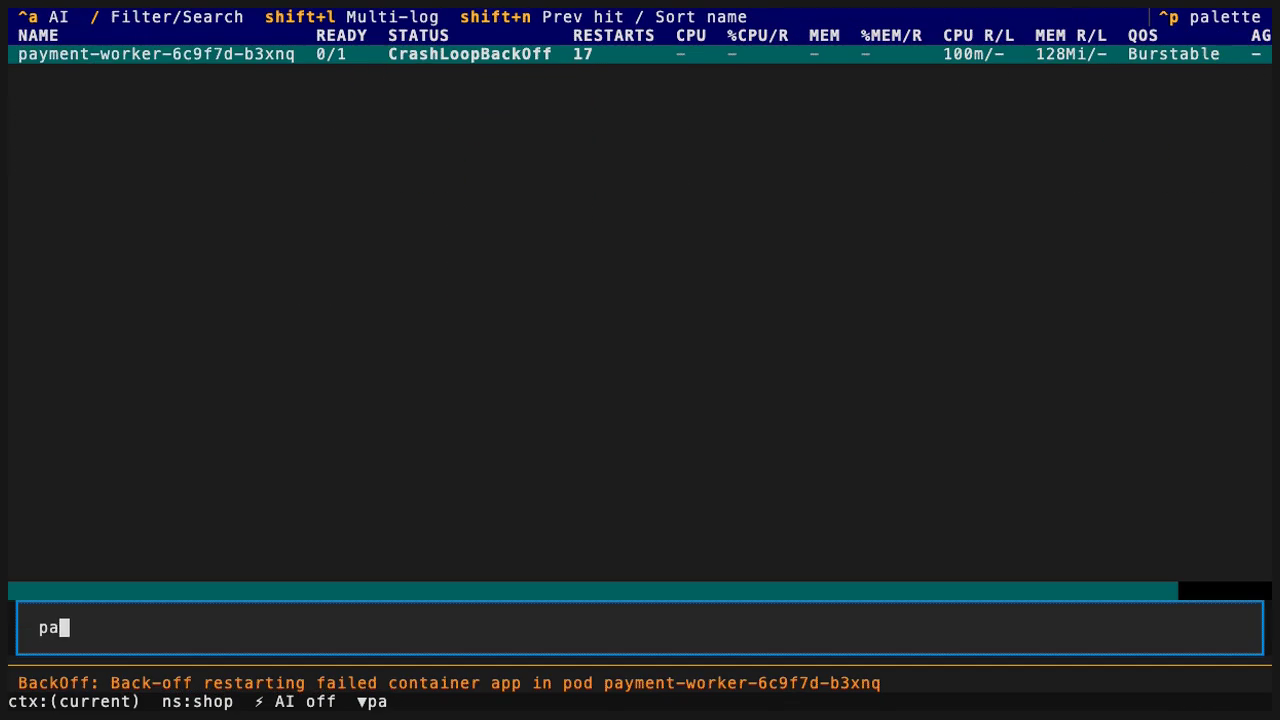
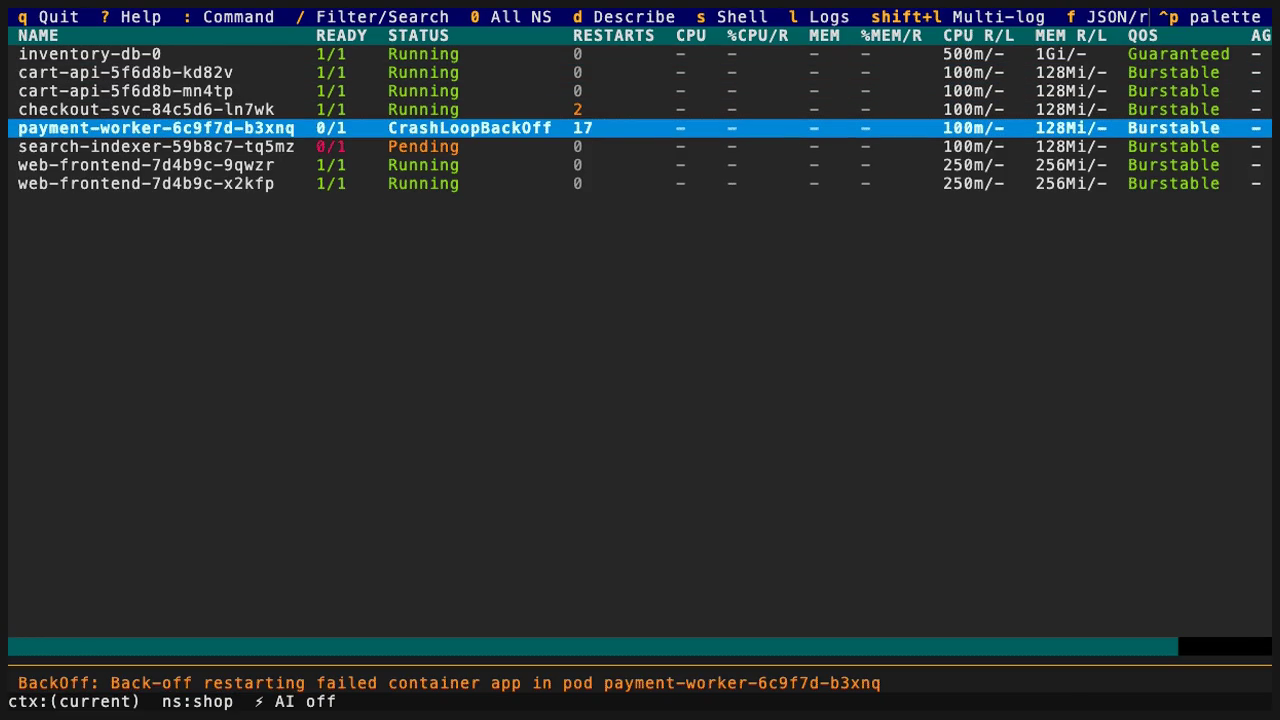
fix: re-cut the hero poster from a settled populated frame
The poster was cut at 00:00:10, mid-filter: one visible row, a live `/`
prompt, and ~75% empty black — the near-empty table the design explicitly
forbids, shown three times above and near the fold. Cut it at 00:00:05
instead, inside the tape's settled pause: the full `shop` pod table with
the crash-looping payment worker selected, its BackOff ops hint, and the
`ctx:/ns:` status row.

The fixture has no metrics source, so the mosaic no longer claims the
frame proves utilization and says what it does show. Correct all three
TUI pins against the new frame's measured rows (key hints y 8-25,
selected row y 119-137, status row y 695-710 of 720) and replace the test
that asserted the old mismatch as fact.

Changed region(s): [[0.0, 0.0, 1.0, 0.275], [0.0, 0.7944, 1.0, 0.9167], [0.2812, 0.9472, 0.3125, 1.0]]

diff --git a/tests/test_docs_build_config.py b/tests/test_docs_build_config.py
@@ -129,16 +129,37 @@ def test_core_concept_pages_each_have_their_selected_visual_evidence() -> None:
 
 
 def test_tui_annotation_pins_match_the_poster_layout() -> None:
-    """`tui.md` must keep the semantic labels aligned with the poster pins."""
+    """`tui.md`'s pins must land on what their captions claim.
+
+    Measured against the 1280x720 `cockpit-poster.png` this branch ships
+    (a settled, populated post-navigation frame):
+
+    * the effective key-hint row occupies y 8-25px (~1-3%);
+    * the selected `CrashLoopBackOff` row occupies y 119-137px (~17-19%);
+    * the `ctx:(current)  ns:shop` status row occupies y 695-710px (~97%),
+      with `ns:shop` starting near x 157px (~12%).
+
+    The pins are ordered 1, 2, 3 in the source, matching the ordered list in
+    the figcaption. An earlier revision pointed pin 3 at 8% (the first pod
+    row) and pin 1 at 92% (~40px above the status row) and asserted those
+    offsets as fact, so the test actively defended the mismatch.
+    """
     source = (ROOT / "docs" / "tui.md").read_text(encoding="utf-8")
-    assert (
-        '<span class="docs-visual__pin" style="--x: 12%; --y: 92%;" aria-hidden="true">1</span>'
-        in source
-    ), "pin 1 must point to the bottom context/status row at --y: 92%"
-    assert (
-        '<span class="docs-visual__pin" style="--x: 50%; --y: 8%;" aria-hidden="true">3</span>'
-        in source
-    ), "pin 3 must point to the top keybinding hint row at --y: 8%"
+    expected = {
+        1: ("12%", "97%", "the context/namespace status row"),
+        2: ("50%", "18%", "the selected, populated resource row"),
+        3: ("50%", "3%", "the effective key-hint row"),
+    }
+    for number, (x, y, target) in expected.items():
+        pin = (
+            f'<span class="docs-visual__pin" style="--x: {x}; --y: {y};" '
+            f'aria-hidden="true">{number}</span>'
+        )
+        assert pin in source, f"pin {number} must point at {target} (--x: {x}; --y: {y})"
+    positions = [source.index(f'aria-hidden="true">{number}</span>') for number in (1, 2, 3)]
+    assert positions == sorted(positions), (
+        "the pins must stay in the order their figcaption list explains them"
+    )
 
 
 def test_getting_started_matches_current_project_and_readme_release() -> None:

diff --git a/tests/test_docs_landing_design.py b/tests/test_docs_landing_design.py
@@ -668,6 +668,28 @@ def test_capability_mosaic_contains_six_real_linked_product_scenes() -> None:
         assert len(re.sub(r"<[^>]+>", " ", paragraphs[0]).split()) <= 30
 
 
+def test_evidence_copy_claims_only_what_its_capture_actually_shows() -> None:
+    """A caption must not promise a signal the screenshot cannot contain.
+
+    The cockpit capture comes from an in-memory fixture with no metrics
+    source, so every CPU/MEM column renders an em-dash placeholder. Claiming
+    the frame shows "utilization" made the page's own headline evidence
+    contradict itself.
+    """
+    mosaic = _section('<section class="evidence-mosaic"', "</section>")
+    cockpit = next(
+        card
+        for card in re.findall(r'<article class="evidence-card[^"]*".*?</article>', mosaic, re.S)
+        if "cockpit-poster.png" in card
+    )
+    assert "utilization" not in cockpit.lower(), (
+        "the cockpit capture has no live metrics, so its caption must describe "
+        "what it does show (status, scope, restarts) instead"
+    )
+    for signal in ("status", "scope", "restart"):
+        assert signal in cockpit.lower()
+
+
 def test_flight_paths_are_four_compact_user_destinations() -> None:
     paths = _section('<nav class="flight-paths"', "</nav>")
     for label, href in (

diff --git a/docs/superpowers/plans/2026-08-22-visual-storytelling.md b/docs/superpowers/plans/2026-08-22-visual-storytelling.md
@@ -129,11 +129,18 @@ Run from the repository root:
 
 ```bash
 mkdir -p docs/assets/scenes
-ffmpeg -y -ss 00:00:10 -i docs/assets/demo.mp4 -frames:v 1 \
+ffmpeg -y -ss 00:00:05 -i docs/assets/demo.mp4 -frames:v 1 \
   docs/assets/scenes/cockpit-poster.png
 ```
 
-Verify the capture is the filtered `payment-worker` table, not an empty startup frame:
+00:00:05 is inside the tape's settled pause after the last `Down`: the full
+`shop` pod table with the crash-looping `payment-worker` row selected, its
+`BackOff` ops hint, and the `ctx:/ns:` status row. 00:00:10 is mid-filter —
+one row and a live `/` prompt — which is the empty-table frame the design
+forbids.
+
+Verify the capture is the settled, populated `payment-worker` table, not an
+empty or mid-filter frame:
 
 ```bash
 file docs/assets/scenes/cockpit-poster.png
@@ -649,7 +656,7 @@ vhs docs/demo/demo.tape
 ffmpeg -y -i docs/assets/demo.gif -an -movflags +faststart \
   -pix_fmt yuv420p -vf 'scale=trunc(iw/2)*2:trunc(ih/2)*2' \
   docs/assets/demo.mp4
-ffmpeg -y -ss 00:00:10 -i docs/assets/demo.mp4 -frames:v 1 \
+ffmpeg -y -ss 00:00:05 -i docs/assets/demo.mp4 -frames:v 1 \
   docs/assets/scenes/cockpit-poster.png
 ffmpeg -y -ss 00:00:16 -i docs/assets/demo.mp4 -frames:v 1 \
   docs/assets/scenes/diagnosis.png
@@ -1443,8 +1450,8 @@ Delete the old “Find your flight path” list and add:
   </div>
   <div class="evidence-mosaic__grid">
     <article class="evidence-card evidence-card--wide">
-      <figure><img src="assets/scenes/cockpit-poster.png" width="1280" height="720" loading="lazy" alt="Korvid pod table filtered to a crash-looping payment worker"><figcaption>Resource cockpit</figcaption></figure>
-      <p>Filter live resources and keep status, scope, and utilization in one keyboard path.</p>
+      <figure><img src="assets/scenes/cockpit-poster.png" width="1280" height="720" loading="lazy" alt="Korvid pod table for a synthetic shop namespace with the crash-looping payment worker selected and its BackOff warning in the ops hint strip"><figcaption>Resource cockpit</figcaption></figure>
+      <p>Browse and filter live resources, keeping status, scope, and restart signals in one keyboard path.</p>
       <a href="tui/">Browse the cockpit</a>
     </article>
     <article class="evidence-card">
@@ -1687,10 +1694,10 @@ on and MkDocs never rewrites raw-HTML `src`, so a page in a subdirectory URL
 ```html
 <figure class="docs-visual docs-visual--annotated">
   <div class="docs-visual__stage">
-    <img src="../assets/scenes/cockpit-poster.png" width="1280" height="720" loading="lazy" alt="Korvid pod table filtered to a synthetic crash-looping payment worker">
-    <span class="docs-visual__pin" style="--x: 12%; --y: 8%;" aria-hidden="true">1</span>
-    <span class="docs-visual__pin" style="--x: 50%; --y: 20%;" aria-hidden="true">2</span>
-    <span class="docs-visual__pin" style="--x: 50%; --y: 92%;" aria-hidden="true">3</span>
+    <img src="../assets/scenes/cockpit-poster.png" width="1280" height="720" loading="lazy" alt="Korvid pod table for a synthetic shop namespace with the crash-looping payment worker selected and its BackOff warning in the ops hint strip">
+    <span class="docs-visual__pin" style="--x: 12%; --y: 97%;" aria-hidden="true">1</span>
+    <span class="docs-visual__pin" style="--x: 50%; --y: 18%;" aria-hidden="true">2</span>
+    <span class="docs-visual__pin" style="--x: 50%; --y: 3%;" aria-hidden="true">3</span>
   </div>
   <figcaption>
     <ol>
@@ -1701,6 +1708,13 @@ on and MkDocs never rewrites raw-HTML `src`, so a page in a subdirectory URL
   </figcaption>
 </figure>
 ```
+
+Measure the offsets against the poster the branch actually ships rather than
+copying them: in `cockpit-poster.png` the key-hint row occupies y 8-25px, the
+selected `CrashLoopBackOff` row y 119-137px, and the `ctx:/ns:` status row
+y 695-710px of 720. Pin 1 (context/namespace) is the bottom row, pin 2
+(resource evidence) the selected row, pin 3 (effective keys) the top row —
+the same order the figcaption list explains them in.
 
 - [ ] **Step 5: Add the embedded-agent storyboard**
 

diff --git a/docs/tui.md b/docs/tui.md
@@ -7,10 +7,10 @@ and context switching. Keys referenced here are listed in
 
 <figure class="docs-visual docs-visual--annotated">
   <div class="docs-visual__stage">
-    <img src="../assets/scenes/cockpit-poster.png" width="1280" height="720" loading="lazy" alt="Korvid pod table filtered to a synthetic crash-looping payment worker">
-    <span class="docs-visual__pin" style="--x: 12%; --y: 92%;" aria-hidden="true">1</span>
-    <span class="docs-visual__pin" style="--x: 50%; --y: 20%;" aria-hidden="true">2</span>
-    <span class="docs-visual__pin" style="--x: 50%; --y: 8%;" aria-hidden="true">3</span>
+    <img src="../assets/scenes/cockpit-poster.png" width="1280" height="720" loading="lazy" alt="Korvid pod table for a synthetic shop namespace with the crash-looping payment worker selected and its BackOff warning in the ops hint strip">
+    <span class="docs-visual__pin" style="--x: 12%; --y: 97%;" aria-hidden="true">1</span>
+    <span class="docs-visual__pin" style="--x: 50%; --y: 18%;" aria-hidden="true">2</span>
+    <span class="docs-visual__pin" style="--x: 50%; --y: 3%;" aria-hidden="true">3</span>
   </div>
   <figcaption>
     <ol>

diff --git a/docs/demo/visual-storytelling.md b/docs/demo/visual-storytelling.md
@@ -32,13 +32,22 @@ vhs docs/demo/demo.tape
 ffmpeg -y -i docs/assets/demo.gif -an -movflags +faststart \
   -pix_fmt yuv420p -vf 'scale=trunc(iw/2)*2:trunc(ih/2)*2' \
   docs/assets/demo.mp4
-ffmpeg -y -ss 00:00:10 -i docs/assets/demo.mp4 -frames:v 1 \
+ffmpeg -y -ss 00:00:05 -i docs/assets/demo.mp4 -frames:v 1 \
   docs/assets/scenes/cockpit-poster.png
 ffmpeg -y -ss 00:00:16 -i docs/assets/demo.mp4 -frames:v 1 \
   docs/assets/scenes/diagnosis.png
 ffmpeg -y -ss 00:00:23 -i docs/assets/demo.mp4 -frames:v 1 \
   docs/assets/scenes/merged-logs.png
 ```
+
+`cockpit-poster.png` is cut at **00:00:05**, inside the tape's 1.5s pause
+after the last `Down` and before the `0` all-namespaces toggle: a settled
+frame with the full `shop` pod table, the crash-looping `payment-worker` row
+selected, its `BackOff` ops hint, and the `ctx:/ns:` status row. Do not cut
+it around 00:00:10 — the tape is mid-filter there, showing a single row and
+a live `/` prompt. The demo has no metrics source, so every CPU/MEM column
+renders `–`; nothing on the site may present this frame as evidence of
+utilization.
 
 ## Embedded agent
 

diff --git a/docs/index.md b/docs/index.md
@@ -119,8 +119,8 @@ hide:
   </div>
   <div class="evidence-mosaic__grid">
     <article class="evidence-card evidence-card--wide">
-      <figure><img src="assets/scenes/cockpit-poster.png" width="1280" height="720" loading="lazy" alt="Korvid pod table filtered to a crash-looping payment worker"><figcaption>Resource cockpit</figcaption></figure>
-      <p>Filter live resources and keep status, scope, and utilization in one keyboard path.</p>
+      <figure><img src="assets/scenes/cockpit-poster.png" width="1280" height="720" loading="lazy" alt="Korvid pod table for a synthetic shop namespace with the crash-looping payment worker selected and its BackOff warning in the ops hint strip"><figcaption>Resource cockpit</figcaption></figure>
+      <p>Browse and filter live resources, keeping status, scope, and restart signals in one keyboard path.</p>
       <a href="tui/">Browse the cockpit</a>
     </article>
     <article class="evidence-card">
